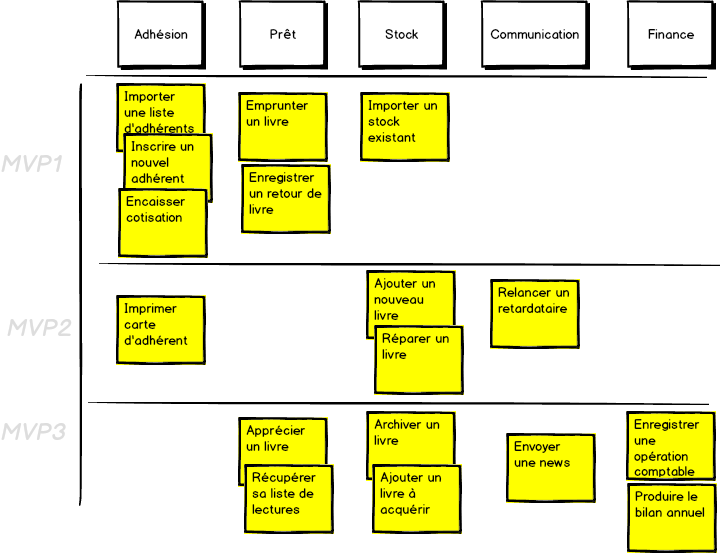
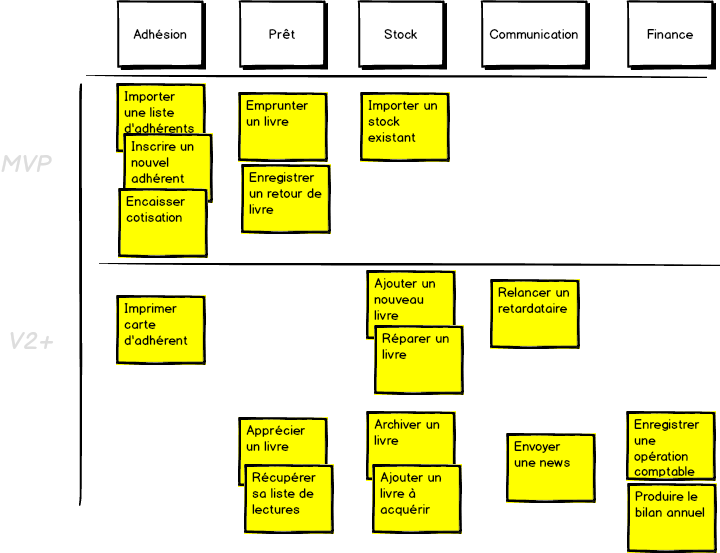
MVP is only once

diff --git a/entantquepo.html b/entantquepo.html
@@ -657,7 +657,7 @@
           </aside>
         </section>
         <section id="mvp" data-background="#61380B">
-          <h2>Etape 5 - Les MVP</h2>
+          <h2>Etape 5 - Le MVP</h2>
           <p><img src="i/mylibrarysm5.png" alt="StoryMap" /></p>
         </section>
         <section data-background="#61380B">
